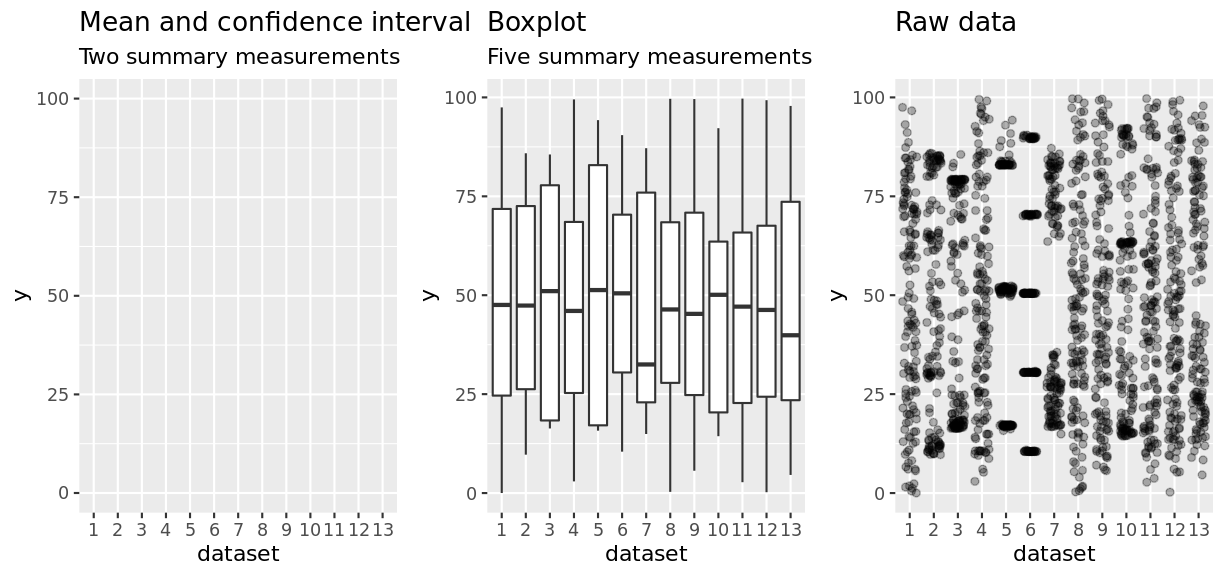
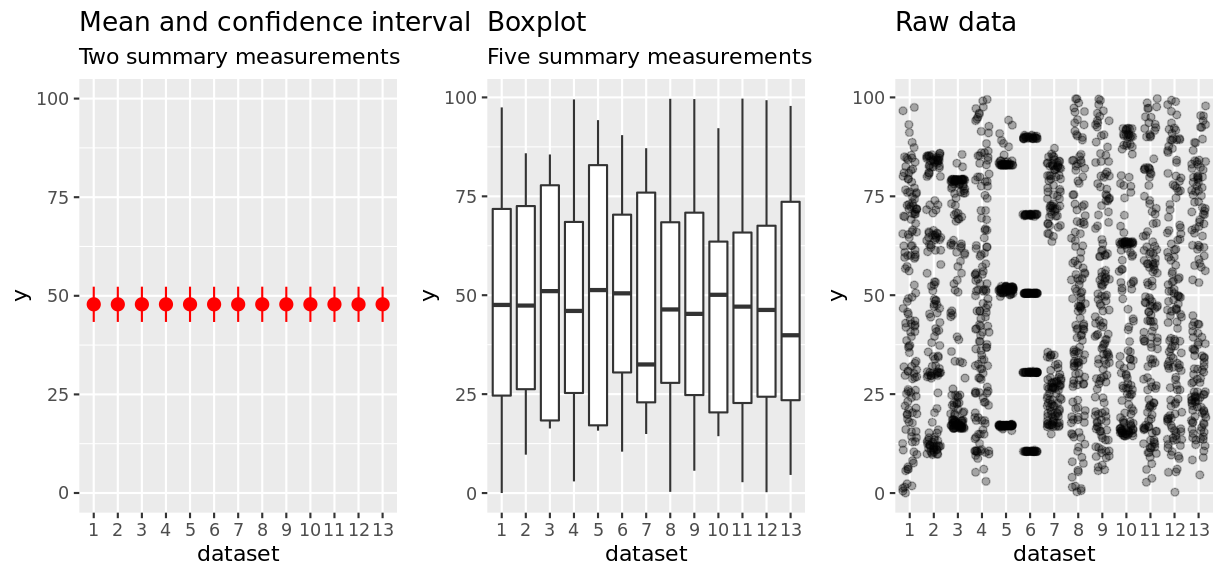
fix

Changed region(s): [[0.7141, 0.1562, 0.9935, 0.875], [0.0621, 0.5, 0.3415, 0.5625]]

diff --git a/_episodes/02-considerations.md b/_episodes/02-considerations.md
@@ -164,13 +164,6 @@ By putting your raw data into a figure, it becomes easier to see the true patter
 Remember with the datasaurus dozen dataset where summary statistics obscured the true meaning in the
 data.
 
-
-~~~
-Warning: Computation failed in `stat_summary()`:
-Hmisc package required for this function
-~~~
-{: .error}
-
 <img src="../fig/rmd-02-show_raw-1.png" title="plot of chunk show_raw" alt="plot of chunk show_raw" width="100%" style="display: block; margin: auto;" />
 
 > ## Discussion
